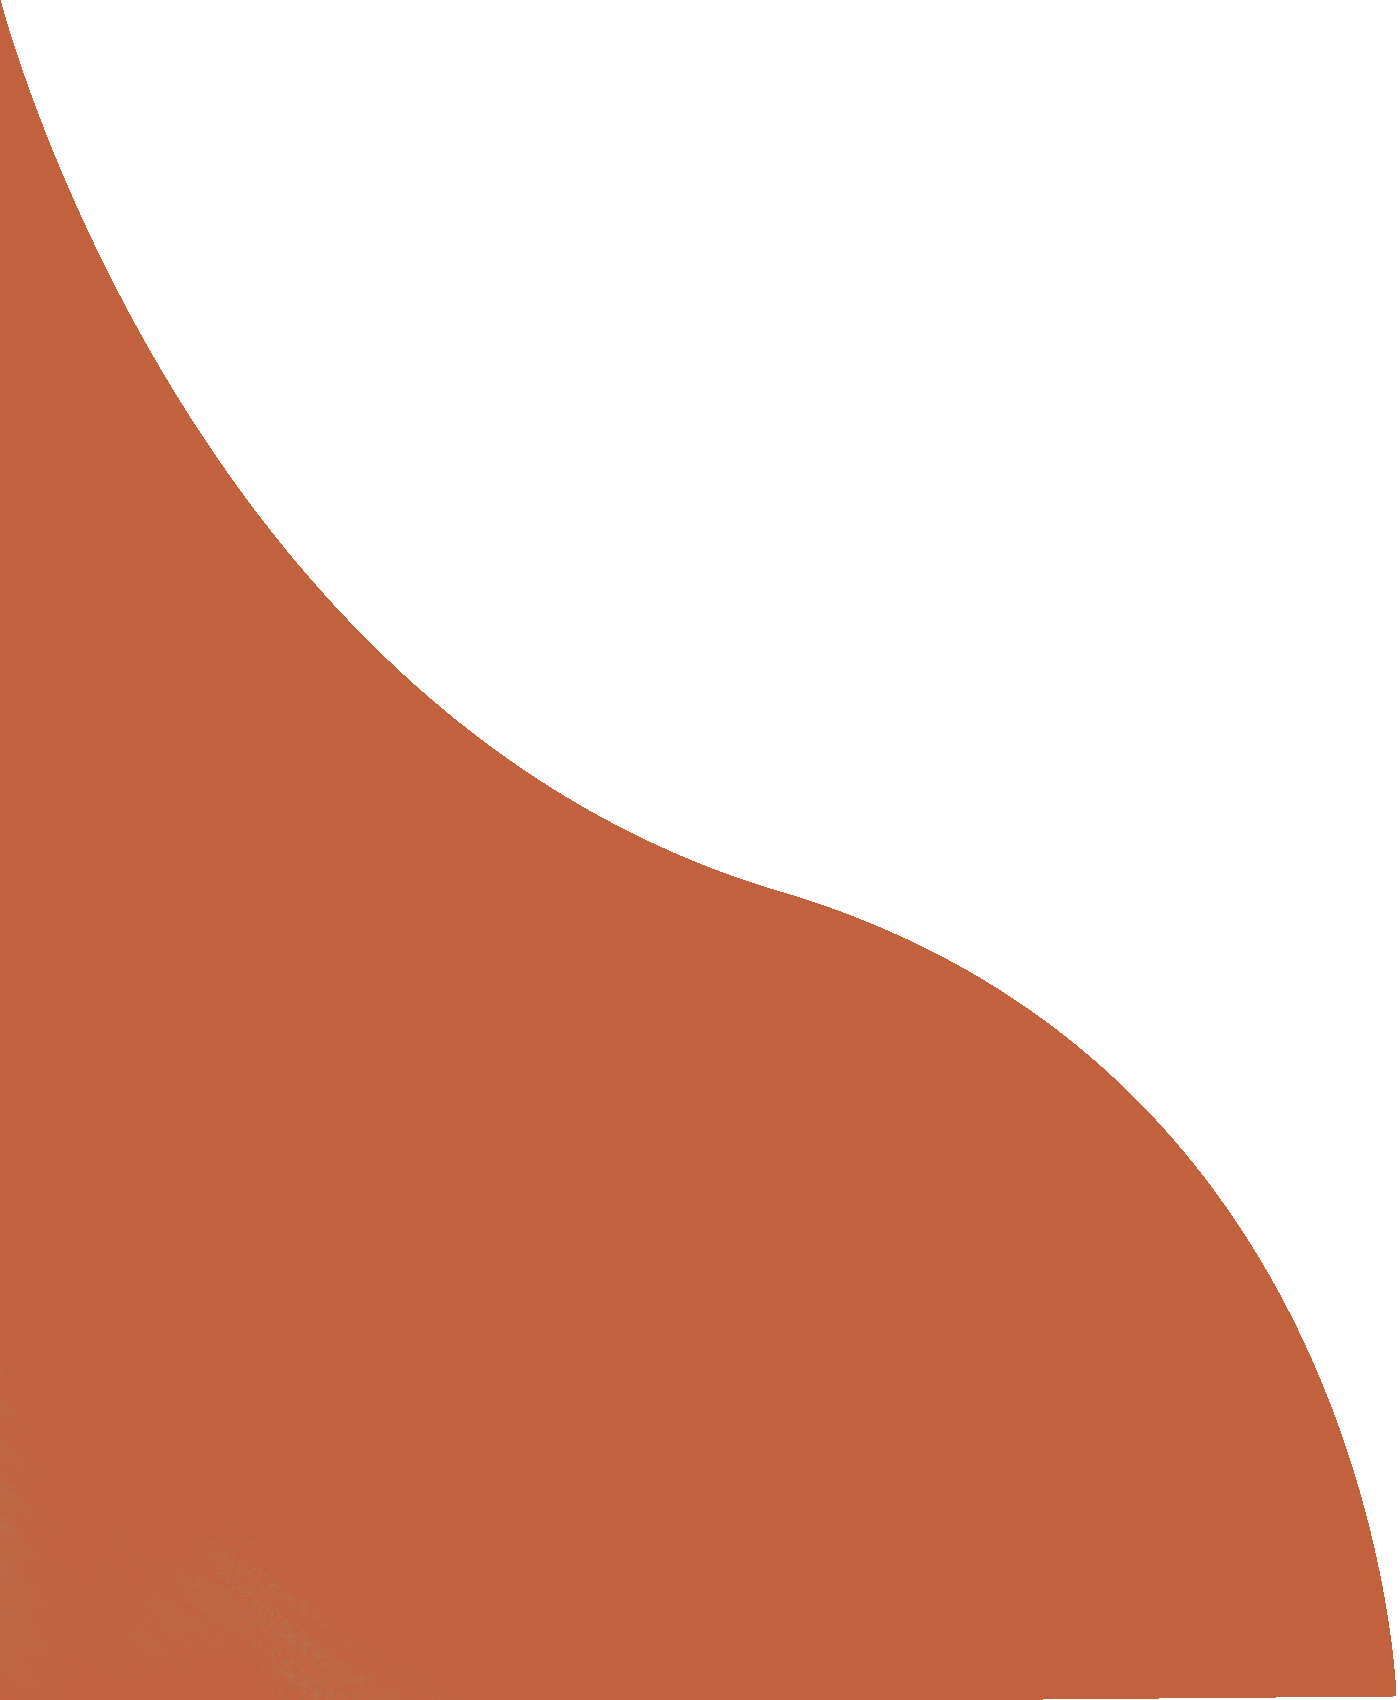
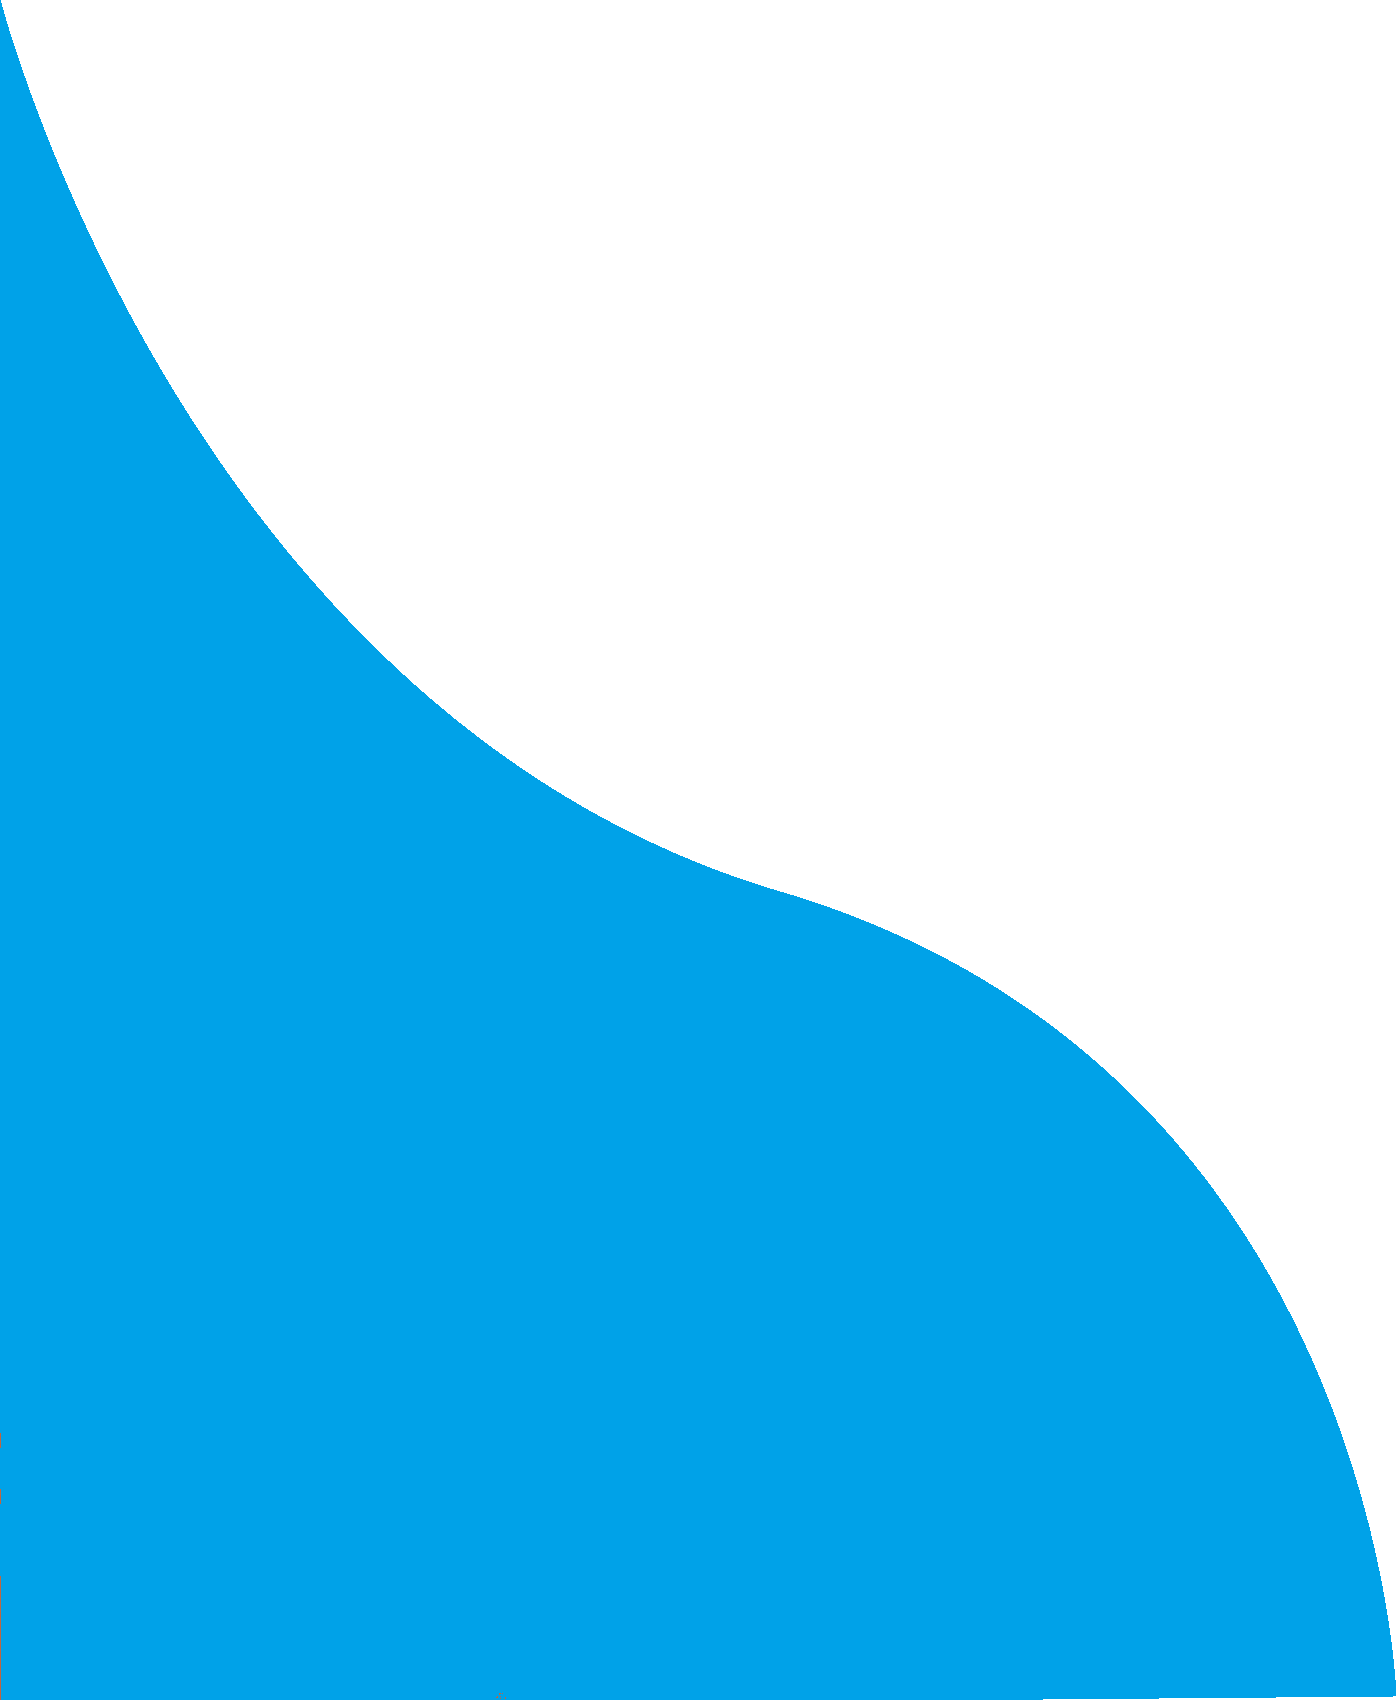
NV-28 color changce

diff --git a/src/css/quasar.variables.scss b/src/css/quasar.variables.scss
@@ -12,7 +12,7 @@
 // to match your app's branding.
 // Tip: Use the "Theme Builder" on Quasar's documentation website.
 
-$primary   : #1976D2;
+$primary   : #36adfd;
 $secondary : #26A69A;
 $accent    : #9C27B0;
 
